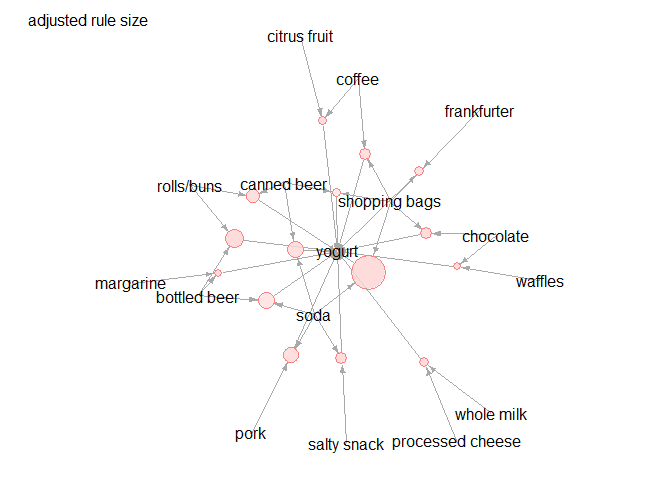
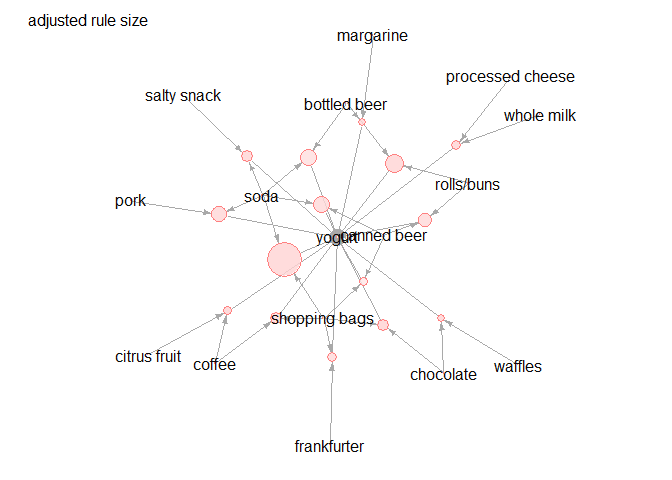
misc fix

diff --git a/README.md b/README.md
@@ -31,16 +31,16 @@ print(glo.apriori)
 #> set of 40943 rules
 
 glo.inspectDF  <- inspectDF(glo.apriori)
-glo.inspectDF %>% str
+glo.inspectDF %>% str(vec.len = 3)
 #> 'data.frame':	40943 obs. of  8 variables:
-#>  $ rule      : chr  "Rule 1" "Rule 2" "Rule 3" "Rule 4" ...
-#>  $ LHS       : chr  "whole milk" "other vegetables" "other vegetables" "rolls/buns" ...
-#>  $ RHS       : chr  "sparkling wine" "artif. sweetener" "bathroom cleaner" "nuts/prunes" ...
-#>  $ n         : num  1 1 1 1 1 1 1 1 1 1 ...
-#>  $ support   : num  0.00102 0.00102 0.00102 0.00102 0.00102 ...
-#>  $ confidence: num  0.00398 0.00525 0.00525 0.00553 0.00583 ...
-#>  $ lift      : num  0.712 1.615 1.914 1.647 1.024 ...
-#>  $ count     : num  10 10 10 10 10 10 10 10 10 10 ...
+#>  $ rule      : chr  "Rule 1" "Rule 2" "Rule 3" ...
+#>  $ LHS       : chr  "whole milk" "other vegetables" "other vegetables" ...
+#>  $ RHS       : chr  "sparkling wine" "artif. sweetener" "bathroom cleaner" ...
+#>  $ n.lhs     : num  1 1 1 1 1 1 1 1 ...
+#>  $ support   : num  0.00102 0.00102 0.00102 0.00102 ...
+#>  $ confidence: num  0.00398 0.00525 0.00525 0.00553 ...
+#>  $ lift      : num  0.712 1.615 1.914 1.647 ...
+#>  $ count     : num  10 10 10 10 10 10 10 10 ...
 ```
 
 **InspectDF** also provides a plot.igraph wrapper utility.
@@ -157,8 +157,22 @@ require(stringr)
 rules.lhs  <- glo.inspectDF %>% 
   filter(str_detect(LHS, pattern = "yogurt|sausage")) %>%
   arrange(confidence, lift) %>%
-  filter(n > 1) %>% 
-  head()
+  filter(n.lhs > 1) %>% 
+  head(5)
+
+rules.lhs
+#>        rule               LHS                    RHS n.lhs     support
+#> 1   Rule 97 whole milk,yogurt               UHT-milk     2 0.001016777
+#> 2   Rule 98 whole milk,yogurt         red/blush wine     2 0.001016777
+#> 3   Rule 99 whole milk,yogurt house keeping products     2 0.001016777
+#> 4  Rule 100 whole milk,yogurt             liver loaf     2 0.001016777
+#> 5 Rule 7175 whole milk,yogurt            chewing gum     2 0.001118454
+#>   confidence      lift count
+#> 1 0.01814882 0.5425339    10
+#> 2 0.01814882 0.9444108    10
+#> 3 0.01814882 2.1767518    10
+#> 4 0.01814882 3.5698730    10
+#> 5 0.01996370 0.9485170    11
 ```
 
 By default, rule strings are split by separater `","`. But, items sometimes contain separater characters e.g. **[IUPAC of DHA](https://pubchem.ncbi.nlm.nih.gov/compound/Docosahexaenoic_acid#section=IUPAC-Name)**. In such case, user can change rule-separater freely `sep = string`.
@@ -167,7 +181,7 @@ By default, rule strings are split by separater `","`. But, items sometimes cont
 ```r
 glo.apriori %>% 
   inspectDF(sep = "###") %>% 
-  filter(n >3) %>% 
+  filter(n.lhs >3) %>% 
   select(2:3) %>% 
   head()
 #>                                                        LHS         RHS
@@ -187,7 +201,7 @@ require(stringr)
 rules.lhs  <- glo.inspectDF %>% 
   filter(str_detect(RHS, pattern = "yogurt")) %>%
   arrange(confidence, lift) %>%
-  filter(n > 1) %>% 
+  filter(n.lhs > 1) %>% 
   head(15)
 
 s=5
@@ -198,7 +212,7 @@ rules.lhs %>% plotRuleGraph(label = "default")
 ![](README_files/figure-html/usecase.adjust.rule-1.png)<!-- -->
 
 ```r
-set.seed(s)
+set.seed(0)
 rules.lhs %>% plotRuleGraph(label = "adjusted rule size", 
                             adujust.support.size = 4000)
 ```
@@ -210,91 +224,137 @@ require(stringr)
 rules.lhs  <- glo.inspectDF %>% 
   filter(str_detect(RHS, pattern = "yogurt")) %>%
   arrange(confidence, lift) %>%
-  filter(n > 1) %>% 
+  filter(n.lhs > 1) %>% 
   head(15)
 
 rules.lhs
-#>          rule                         LHS    RHS n     support confidence
-#> 1   Rule 7989   canned beer,shopping bags yogurt 2 0.001118454 0.09821429
-#> 2  Rule 31170           soda,bottled beer yogurt 2 0.002135231 0.12574850
-#> 3  Rule 13529   frankfurter,shopping bags yogurt 2 0.001220132 0.14814815
-#> 4  Rule 20442        coffee,shopping bags yogurt 2 0.001423488 0.15217391
-#> 5  Rule 26699      rolls/buns,canned beer yogurt 2 0.001728521 0.15315315
-#> 6  Rule 31223            soda,canned beer yogurt 2 0.002135231 0.15441176
-#> 7  Rule 29426                   pork,soda yogurt 2 0.001931876 0.16239316
-#> 8  Rule 22978            soda,salty snack yogurt 2 0.001525165 0.16304348
-#> 9   Rule 2458      margarine,bottled beer yogurt 2 0.001016777 0.16666667
-#> 10 Rule 32635     rolls/buns,bottled beer yogurt 2 0.002338587 0.17164179
-#> 11 Rule 38217          soda,shopping bags yogurt 2 0.004270463 0.17355372
-#> 12 Rule 13816 whole milk,processed cheese yogurt 2 0.001220132 0.17391304
-#> 13  Rule 9106         citrus fruit,coffee yogurt 2 0.001118454 0.17460317
-#> 14 Rule 20625     chocolate,shopping bags yogurt 2 0.001423488 0.17500000
-#> 15  Rule 2605           waffles,chocolate yogurt 2 0.001016777 0.17543860
-#>         lift count
-#> 1  0.7040361    11
-#> 2  0.9014115    21
-#> 3  1.0619803    12
-#> 4  1.0908385    14
-#> 5  1.0978581    17
-#> 6  1.1068803    21
-#> 7  1.1640938    19
-#> 8  1.1687555    15
-#> 9  1.1947279    10
-#> 10 1.2303914    23
-#> 11 1.2440968    42
-#> 12 1.2466726    12
-#> 13 1.2516197    11
-#> 14 1.2544643    14
-#> 15 1.2576083    10
+#>          rule                         LHS    RHS n.lhs     support
+#> 1   Rule 7989   canned beer,shopping bags yogurt     2 0.001118454
+#> 2  Rule 31170           soda,bottled beer yogurt     2 0.002135231
+#> 3  Rule 13529   frankfurter,shopping bags yogurt     2 0.001220132
+#> 4  Rule 20442        coffee,shopping bags yogurt     2 0.001423488
+#> 5  Rule 26699      rolls/buns,canned beer yogurt     2 0.001728521
+#> 6  Rule 31223            soda,canned beer yogurt     2 0.002135231
+#> 7  Rule 29426                   pork,soda yogurt     2 0.001931876
+#> 8  Rule 22978            soda,salty snack yogurt     2 0.001525165
+#> 9   Rule 2458      margarine,bottled beer yogurt     2 0.001016777
+#> 10 Rule 32635     rolls/buns,bottled beer yogurt     2 0.002338587
+#> 11 Rule 38217          soda,shopping bags yogurt     2 0.004270463
+#> 12 Rule 13816 whole milk,processed cheese yogurt     2 0.001220132
+#> 13  Rule 9106         citrus fruit,coffee yogurt     2 0.001118454
+#> 14 Rule 20625     chocolate,shopping bags yogurt     2 0.001423488
+#> 15  Rule 2605           waffles,chocolate yogurt     2 0.001016777
+#>    confidence      lift count
+#> 1  0.09821429 0.7040361    11
+#> 2  0.12574850 0.9014115    21
+#> 3  0.14814815 1.0619803    12
+#> 4  0.15217391 1.0908385    14
+#> 5  0.15315315 1.0978581    17
+#> 6  0.15441176 1.1068803    21
+#> 7  0.16239316 1.1640938    19
+#> 8  0.16304348 1.1687555    15
+#> 9  0.16666667 1.1947279    10
+#> 10 0.17164179 1.2303914    23
+#> 11 0.17355372 1.2440968    42
+#> 12 0.17391304 1.2466726    12
+#> 13 0.17460317 1.2516197    11
+#> 14 0.17500000 1.2544643    14
+#> 15 0.17543860 1.2576083    10
 
 edges.lhs <- rules.lhs %>% inspectDF::toEdges()
 edges.lhs
-#>                from         to n     support confidence      lift count
-#> 1         Rule 7989     yogurt 2 0.001118454 0.09821429 0.7040361    11
-#> 2        Rule 31170     yogurt 2 0.002135231 0.12574850 0.9014115    21
-#> 3        Rule 13529     yogurt 2 0.001220132 0.14814815 1.0619803    12
-#> 4        Rule 20442     yogurt 2 0.001423488 0.15217391 1.0908385    14
-#> 5        Rule 26699     yogurt 2 0.001728521 0.15315315 1.0978581    17
-#> 6        Rule 31223     yogurt 2 0.002135231 0.15441176 1.1068803    21
-#> 7        Rule 29426     yogurt 2 0.001931876 0.16239316 1.1640938    19
-#> 8        Rule 22978     yogurt 2 0.001525165 0.16304348 1.1687555    15
-#> 9         Rule 2458     yogurt 2 0.001016777 0.16666667 1.1947279    10
-#> 10       Rule 32635     yogurt 2 0.002338587 0.17164179 1.2303914    23
-#> 11       Rule 38217     yogurt 2 0.004270463 0.17355372 1.2440968    42
-#> 12       Rule 13816     yogurt 2 0.001220132 0.17391304 1.2466726    12
-#> 13        Rule 9106     yogurt 2 0.001118454 0.17460317 1.2516197    11
-#> 14       Rule 20625     yogurt 2 0.001423488 0.17500000 1.2544643    14
-#> 15        Rule 2605     yogurt 2 0.001016777 0.17543860 1.2576083    10
-#> 16      canned beer  Rule 7989 2 0.001118454 0.09821429 0.7040361    11
-#> 17    shopping bags  Rule 7989 2 0.001118454 0.09821429 0.7040361    11
-#> 18             soda Rule 31170 2 0.002135231 0.12574850 0.9014115    21
-#> 19     bottled beer Rule 31170 2 0.002135231 0.12574850 0.9014115    21
-#> 20      frankfurter Rule 13529 2 0.001220132 0.14814815 1.0619803    12
-#> 21    shopping bags Rule 13529 2 0.001220132 0.14814815 1.0619803    12
-#> 22           coffee Rule 20442 2 0.001423488 0.15217391 1.0908385    14
-#> 23    shopping bags Rule 20442 2 0.001423488 0.15217391 1.0908385    14
-#> 24       rolls/buns Rule 26699 2 0.001728521 0.15315315 1.0978581    17
-#> 25      canned beer Rule 26699 2 0.001728521 0.15315315 1.0978581    17
-#> 26             soda Rule 31223 2 0.002135231 0.15441176 1.1068803    21
-#> 27      canned beer Rule 31223 2 0.002135231 0.15441176 1.1068803    21
-#> 28             pork Rule 29426 2 0.001931876 0.16239316 1.1640938    19
-#> 29             soda Rule 29426 2 0.001931876 0.16239316 1.1640938    19
-#> 30             soda Rule 22978 2 0.001525165 0.16304348 1.1687555    15
-#> 31      salty snack Rule 22978 2 0.001525165 0.16304348 1.1687555    15
-#> 32        margarine  Rule 2458 2 0.001016777 0.16666667 1.1947279    10
-#> 33     bottled beer  Rule 2458 2 0.001016777 0.16666667 1.1947279    10
-#> 34       rolls/buns Rule 32635 2 0.002338587 0.17164179 1.2303914    23
-#> 35     bottled beer Rule 32635 2 0.002338587 0.17164179 1.2303914    23
-#> 36             soda Rule 38217 2 0.004270463 0.17355372 1.2440968    42
-#> 37    shopping bags Rule 38217 2 0.004270463 0.17355372 1.2440968    42
-#> 38       whole milk Rule 13816 2 0.001220132 0.17391304 1.2466726    12
-#> 39 processed cheese Rule 13816 2 0.001220132 0.17391304 1.2466726    12
-#> 40     citrus fruit  Rule 9106 2 0.001118454 0.17460317 1.2516197    11
-#> 41           coffee  Rule 9106 2 0.001118454 0.17460317 1.2516197    11
-#> 42        chocolate Rule 20625 2 0.001423488 0.17500000 1.2544643    14
-#> 43    shopping bags Rule 20625 2 0.001423488 0.17500000 1.2544643    14
-#> 44          waffles  Rule 2605 2 0.001016777 0.17543860 1.2576083    10
-#> 45        chocolate  Rule 2605 2 0.001016777 0.17543860 1.2576083    10
+#>                from         to n.lhs     support confidence      lift
+#> 1         Rule 7989     yogurt     2 0.001118454 0.09821429 0.7040361
+#> 2        Rule 31170     yogurt     2 0.002135231 0.12574850 0.9014115
+#> 3        Rule 13529     yogurt     2 0.001220132 0.14814815 1.0619803
+#> 4        Rule 20442     yogurt     2 0.001423488 0.15217391 1.0908385
+#> 5        Rule 26699     yogurt     2 0.001728521 0.15315315 1.0978581
+#> 6        Rule 31223     yogurt     2 0.002135231 0.15441176 1.1068803
+#> 7        Rule 29426     yogurt     2 0.001931876 0.16239316 1.1640938
+#> 8        Rule 22978     yogurt     2 0.001525165 0.16304348 1.1687555
+#> 9         Rule 2458     yogurt     2 0.001016777 0.16666667 1.1947279
+#> 10       Rule 32635     yogurt     2 0.002338587 0.17164179 1.2303914
+#> 11       Rule 38217     yogurt     2 0.004270463 0.17355372 1.2440968
+#> 12       Rule 13816     yogurt     2 0.001220132 0.17391304 1.2466726
+#> 13        Rule 9106     yogurt     2 0.001118454 0.17460317 1.2516197
+#> 14       Rule 20625     yogurt     2 0.001423488 0.17500000 1.2544643
+#> 15        Rule 2605     yogurt     2 0.001016777 0.17543860 1.2576083
+#> 16      canned beer  Rule 7989     2 0.001118454 0.09821429 0.7040361
+#> 17    shopping bags  Rule 7989     2 0.001118454 0.09821429 0.7040361
+#> 18             soda Rule 31170     2 0.002135231 0.12574850 0.9014115
+#> 19     bottled beer Rule 31170     2 0.002135231 0.12574850 0.9014115
+#> 20      frankfurter Rule 13529     2 0.001220132 0.14814815 1.0619803
+#> 21    shopping bags Rule 13529     2 0.001220132 0.14814815 1.0619803
+#> 22           coffee Rule 20442     2 0.001423488 0.15217391 1.0908385
+#> 23    shopping bags Rule 20442     2 0.001423488 0.15217391 1.0908385
+#> 24       rolls/buns Rule 26699     2 0.001728521 0.15315315 1.0978581
+#> 25      canned beer Rule 26699     2 0.001728521 0.15315315 1.0978581
+#> 26             soda Rule 31223     2 0.002135231 0.15441176 1.1068803
+#> 27      canned beer Rule 31223     2 0.002135231 0.15441176 1.1068803
+#> 28             pork Rule 29426     2 0.001931876 0.16239316 1.1640938
+#> 29             soda Rule 29426     2 0.001931876 0.16239316 1.1640938
+#> 30             soda Rule 22978     2 0.001525165 0.16304348 1.1687555
+#> 31      salty snack Rule 22978     2 0.001525165 0.16304348 1.1687555
+#> 32        margarine  Rule 2458     2 0.001016777 0.16666667 1.1947279
+#> 33     bottled beer  Rule 2458     2 0.001016777 0.16666667 1.1947279
+#> 34       rolls/buns Rule 32635     2 0.002338587 0.17164179 1.2303914
+#> 35     bottled beer Rule 32635     2 0.002338587 0.17164179 1.2303914
+#> 36             soda Rule 38217     2 0.004270463 0.17355372 1.2440968
+#> 37    shopping bags Rule 38217     2 0.004270463 0.17355372 1.2440968
+#> 38       whole milk Rule 13816     2 0.001220132 0.17391304 1.2466726
+#> 39 processed cheese Rule 13816     2 0.001220132 0.17391304 1.2466726
+#> 40     citrus fruit  Rule 9106     2 0.001118454 0.17460317 1.2516197
+#> 41           coffee  Rule 9106     2 0.001118454 0.17460317 1.2516197
+#> 42        chocolate Rule 20625     2 0.001423488 0.17500000 1.2544643
+#> 43    shopping bags Rule 20625     2 0.001423488 0.17500000 1.2544643
+#> 44          waffles  Rule 2605     2 0.001016777 0.17543860 1.2576083
+#> 45        chocolate  Rule 2605     2 0.001016777 0.17543860 1.2576083
+#>    count
+#> 1     11
+#> 2     21
+#> 3     12
+#> 4     14
+#> 5     17
+#> 6     21
+#> 7     19
+#> 8     15
+#> 9     10
+#> 10    23
+#> 11    42
+#> 12    12
+#> 13    11
+#> 14    14
+#> 15    10
+#> 16    11
+#> 17    11
+#> 18    21
+#> 19    21
+#> 20    12
+#> 21    12
+#> 22    14
+#> 23    14
+#> 24    17
+#> 25    17
+#> 26    21
+#> 27    21
+#> 28    19
+#> 29    19
+#> 30    15
+#> 31    15
+#> 32    10
+#> 33    10
+#> 34    23
+#> 35    23
+#> 36    42
+#> 37    42
+#> 38    12
+#> 39    12
+#> 40    11
+#> 41    11
+#> 42    14
+#> 43    14
+#> 44    10
+#> 45    10
 ```
 
 
